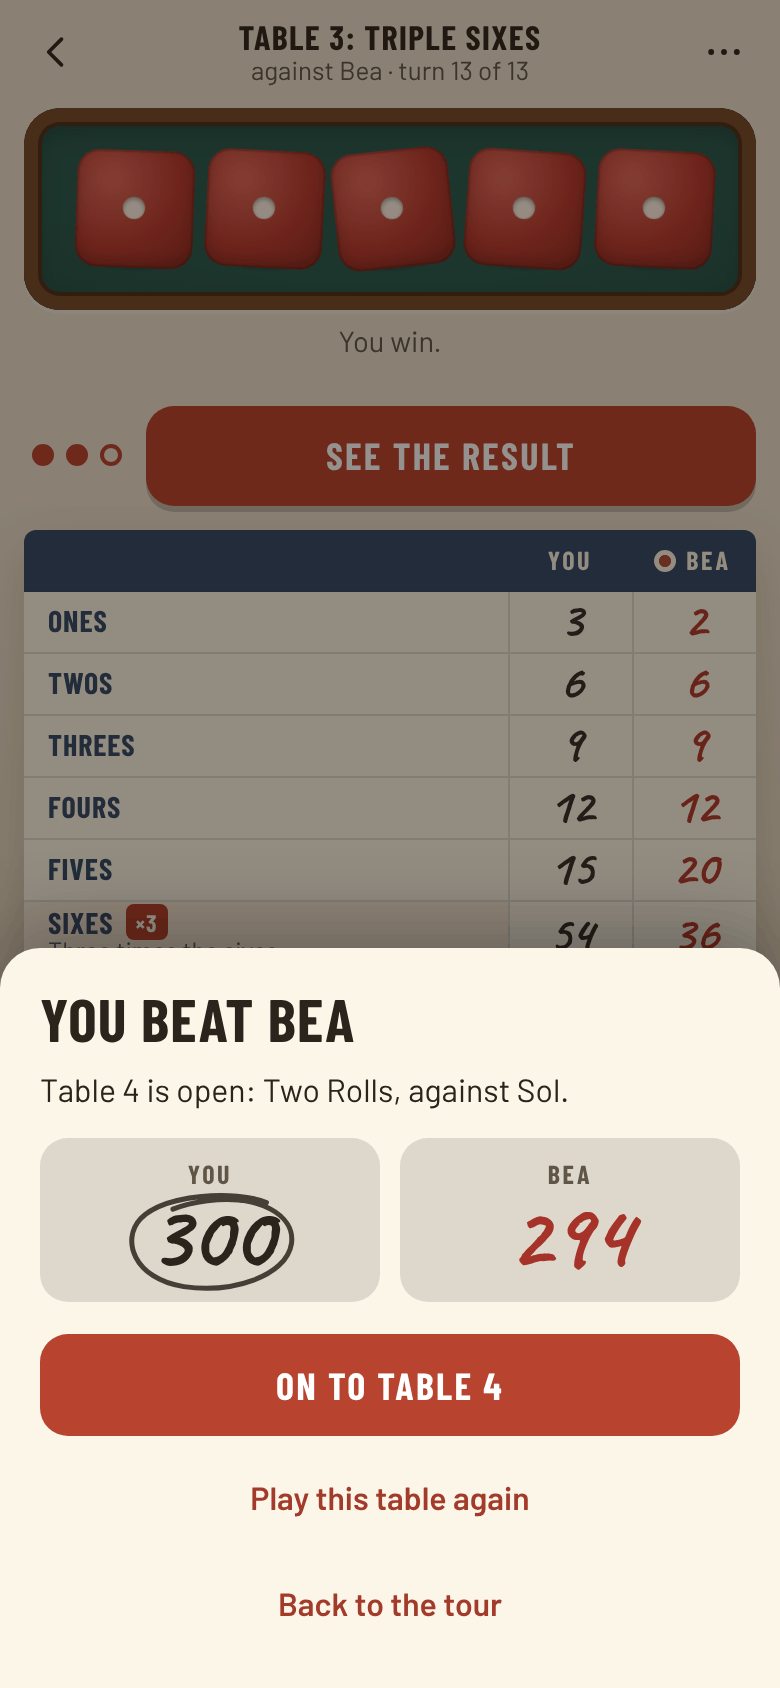
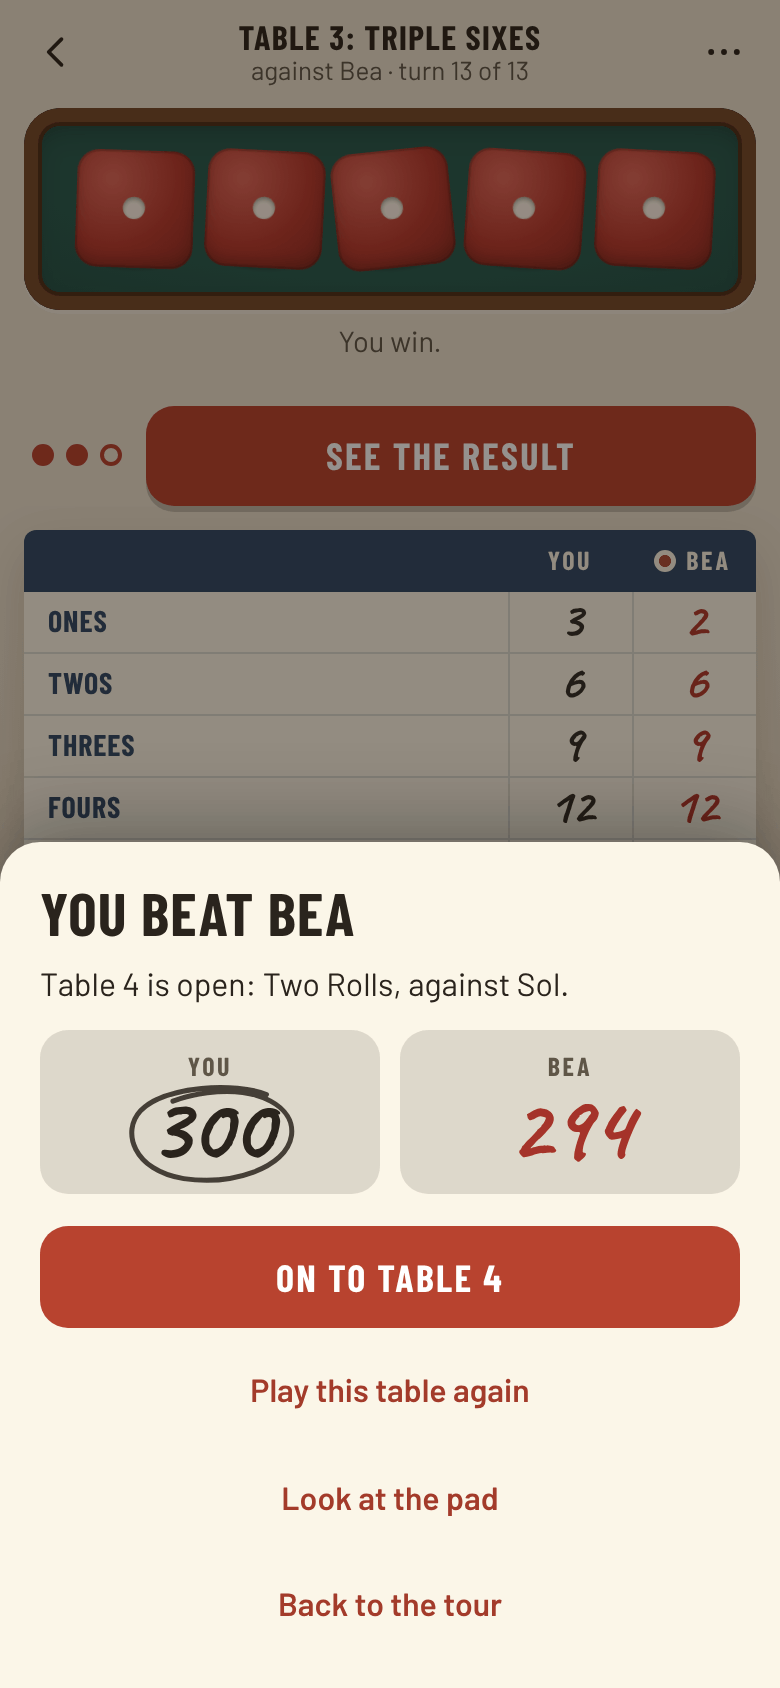
The result has a Look at the pad button that puts it aside to read the finished pad
The result sheet covers the bottom section and both totals, and the only ways to put it aside were Escape and the back button, neither of which a phone shows. It now has a plain Look at the pad button under its others: it closes the result and leaves the finished pad on screen, with the focus on the big button, which already reads See the result and brings it back. The step on looking over a finished game now closes the result by the new button as well as by Escape and Back, and checks the focus lands on See the result. The README's picture of a won game is redrawn with the new button. This answers Mark's question on putting the result aside to look over the finished pad.

Claude-Session: https://claude.ai/code/session_01PQbLNX15TRuoVSp8xd8he3

Changed region(s): [[0.0, 0.4929, 1.0, 0.8934]]

diff --git a/js/app.js b/js/app.js
@@ -654,6 +654,8 @@ $('people').addEventListener('click', e => {
 });
 $('b-tour').addEventListener('click', () => { closeSheets(); game = null; save(); open('home'); });
 $('b-again').addEventListener('click', () => start(game.table, game.opp));
+// The result put aside, to look over the finished pad under it: See the result, where the focus goes back to, opens it again.
+$('b-look').addEventListener('click', closeSheets);
 $('b-rules').addEventListener('click', () => { showRules(CLASSIC, false); openSheet('sheet-rules'); });
 // From the menu, which closes as How to play opens: afterwards the focus goes back to the menu button.
 $('b-menu-rules').addEventListener('click', () => { showRules(game?.board || CLASSIC, !!game); openSheet('sheet-rules', $('b-menu')); });

diff --git a/sw.js b/sw.js
@@ -8,7 +8,7 @@
 // fingerprint of every file in SHELL: change any of them and test/e2e.mjs fails until FILES is changed to match (it
 // says what to), which changes this file, so every copy is made whole again at once.
 const CACHE = 'full-house-v3'; // bump the number when the file list changes
-const FILES = '5d77af0d'; // test/e2e.mjs checks this
+const FILES = '2ea64712'; // test/e2e.mjs checks this
 const SHELL = [
   './', 'index.html', 'carry.js', 'icon.svg', 'manifest.webmanifest', 'icon-180.png', 'icon-192.png',
   'css/app.css',

diff --git a/index.html b/index.html
@@ -104,6 +104,7 @@
       <p class="best" id="result-best" hidden></p>
       <button type="button" class="primary" id="b-next"></button>
       <button type="button" class="plain" id="b-again">Play this table again</button>
+      <button type="button" class="plain" id="b-look">Look at the pad</button>
       <button type="button" class="plain" id="b-tour">Back to the tour</button>
     </section>
   </div>
